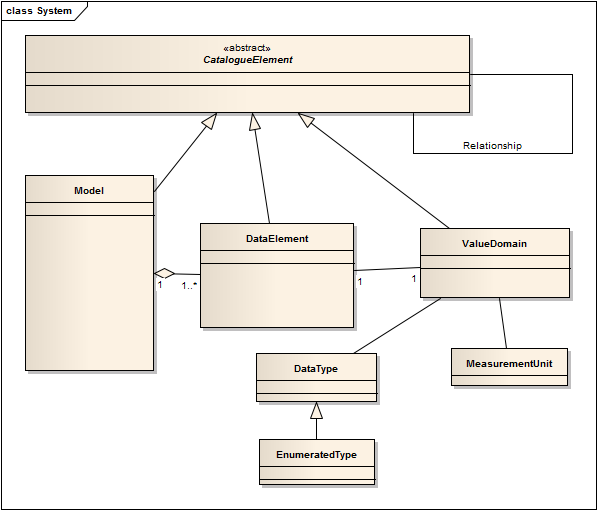
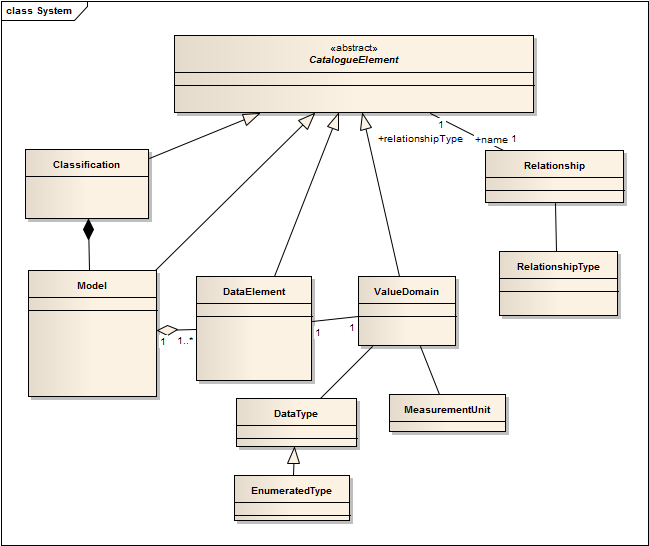
Some updates

diff --git a/1Introduction.tex b/1Introduction.tex
@@ -2,37 +2,50 @@
 
 \section{Introduction}
 
-Data Quality and Data Integration are two major problems which are becoming critical for health care providers everywhere. Research data is held on different systems, in different locations and the data itself is heterogeneous, collected without a common syntax or semantics. The successful application of metadata registries together with model driven engineering has been demonstrated to have a significant impact on these problems within two major healthcare projects within the UK's National Health Service(NHS).
+Data Quality and Data Integration are two major problems which are becoming critical for health care providers everywhere. Research data is held on different systems, in different locations and the data itself is heterogeneous, collected without a common syntax or semantics. Data quality within the enterprise is dependent on successfully managing heterogeneous data sources, and there are variety of approaches to solve the problems associated with data integration.   The successful application of metadata registries together with model driven engineering has been demonstrated to have a significant impact on these problems within two major healthcare projects within the UK's National Health Service(NHS).
 
 The UK's National Institute for Health Research (NIHR \cite{NIHR}) has sponsored the Health Informatics Collaberative (NHIC) which is backing a cross-trust programme involving 5 key NHS hospital trusts in the UK in order to set up a flexible and responsive governance framework, whereby research outcomes can rapidly be exploited by the NHS community. The work is currently limited to 5 clinical areas, but is expected in time to be extended. One of the aims of the programme is to develop tools and services for research, so that researchers can clinicians can have access to a wider cross Biomedical Research Centre (BRC) dataset. The programme has been working on developing a federated metadata registry, based on the ISO standard for metadata registries ISO11179\cite{ISO11179}, for use as a basis for enabling interoperability primarily for research data from clinical trials but also with a view to integrating this capability with Electronic Patient Records (EPR) data within the trusts.
 
 Genomics England (GEL \cite{GEL}) is a research company wholly owned by the UK's NHS, which has been created ......
 
 \subsection{Background}
+
+Interoperability is major problem in electronic information systems in 2 orthogonal respects, firstly that domain concepts and terms in multiple systems are used to mean slightly different things, and secondly that the same concept meaning in different systems very often are given a different representation, so that speed may be represented by an Integer value in one systems and by a Double in another system.
+
 The idea of a data dictionary has been around since databases first become common instruments for storing and manipulating data. A data dictionary is  the idea of a metadata registry stems from a similar notion.
 Metadata Registries are needed in organizations to ensure data consistency. Metadata Registries are capable of analysing, administering and classifying metadata and very often in practise they also function as repositories for metadata, storing the schema and blueprints for data types and structures. The ideas and concepts that are stored in data systems form the basis of executable software systems, however many of the details are peculiar to particular disciplines.  
 
-In the past Data Dictionaries were used to store details of database record structure or application data structure on a local per application basis, a metadata registry provides a similar capability but on a system or organisation-wide basis. It also provides features that are commonly included in a \emph{thesaurus}, a \emph{Taxonomy}, and an \emph{Ontology} . These features include the ability to classify terms in relation to one another, record relationships such as synonyms, and classify hierarchical relationships.
+In the past Data Dictionaries were used to store details of database record structure or application data structure on a local per application basis, a metadata registry provides a similar capability but on a system or organisation-wide basis. It also provides features that are commonly included in a \emph{Thesaurus}, a \emph{Taxonomy}, and an \emph{Ontology} . These features include the ability to classify terms in relation to one another, record relationships such as synonyms, and classify hierarchical relationships. Ontologies have proved effective in matching what we define as the first problem, that is how domain concepts can be matched, however they are quite unwieldy to use when tackling the second problem of how to match and manage different representations.
 
-Metadata Registries are normally found in Data Warehouses and Enterprise systems, where vast quantities of data need to be administered and managed. It is likely that metadata registries will become more common as it becomes more and more necessary to deal with the recent internet-driven data explosion, especially as much of this data is unstructured, and can only be processed by relatively inefficient techniques.
+Metadata Registries are normally found in Data Warehouses and Enterprise data mining systems, where vast quantities of data need to be administered and managed. It is likely that metadata registries will become more common as it becomes more and more necessary to deal with the recent internet-driven data explosion, especially as much of this data is unstructured, and can only be processed by relatively inefficient techniques.
 
-Metadata Registries contain the ability to examine both how a data element is represented as well as what it means, and it is this relationship that is embodied in the International Standard 11179, which I will examine in the next section. There are other standards which purport to be concerned with metadata registries namely ISO15000-3 and ISO15000-4, which relate to ebXML, however they are more concerned with storing and accessing metadata rather than classifying it and relating the semantic and representational aspects of that metadata.
+Metadata Registries contain the ability to examine both how a data element is represented as well as to record it means, and it is this relationship that is embodied in the International Standard 11179, which we will examine in the next section. There are other standards which are concerned with metadata registries namely ISO15000 (part 3 and 4)  which relates to ebXML, however they are more concerned with storing and accessing metadata rather than classifying it and relating the semantic and representational aspects of that metadata.
 
 \subsection{ISO11179}
-ISO11179 is the international standard relating to metadata and in particular metadata registries, and although there are a few other related standards which I have examined in the course of specifying a metadata registry ISO11179 provides the most exhaustive description of a metadata registry. It is therefore a key reference in this specification. If we abstract the core ideas from the ISO11179 standard we have the notion of a \emph{data element concept}, \emph{a data element}, \emph{a value domain}, and a \emph{conceptual domain}. The standard has no notion of collections of data elements, but instead attaches two attributes: an \emph{object class} and a \emph{property} to each DEC, these attributes allow DEC's to be aggregated or classified, see figure\ref{fig:basicMDR}
+ISO11179 is the international standard relating to metadata and in particular metadata registries, and although there are a few other related standards which have informed the specification of the toolkit we describe ISO11179 provides the most exhaustive description of a metadata registry. It is therefore a key reference in this specification.
+
+
 
 
 \begin{figure}[here]
-	\includegraphics[width=0.5\textwidth,natwidth=610,natheight=642]{Basic11179}
+	\includegraphics[width=0.48\textwidth,natwidth=610,natheight=642]{Basic11179}
 	\caption{Core model for ISO11179 Metadata Registry} 
 	\label{fig:basicMDR}
 \end{figure}
 
-ISO11179 is a very thorough standard for metadata registries, and is split into 6 sections.
+The core ideas from the ISO11179 standard can be extracted to give us the notion of a \emph{data element concept}, \emph{a data element}, \emph{a value domain}, and a \emph{conceptual domain}. The standard currently confines itself to the detailed level of concepts and data elements and has no notion of collections of data elements or data element concepts, but instead attaches two attributes: an \emph{object class} and a \emph{property} to each DEC, these attributes allow DEC's to be aggregated or classified. This core model of the ISO11179 is illustrated in figure \ref{fig:basicMDR}.
+
+
+
+
 
 \subsection{Related Work}
-????
+????Maybe add to the last section?
 
 \subsection{Objectives}
-This paper is an experience paper showing the results obtained from applying the principles of Model Driven Engineering to achieve solutions in the medical domain. In both cases the aims of the clinicians were similar, namely to integrate existing clinical trials data and to ensure that future artefacts, such as the forms used to capture datasets resulted in high data quality. The biggest frustration in fusing datasets is that it is a slow process requiring highly trained operators to ensure that datasets are correctly merged. 
-The paper is split into 5 sections, this section introduces the problem and gives an overview of the work, the next section looks at the core language or model used, section 3 deals with the implementation details, section 4 details the experience gained, in essence the results achieved and section 5 concludes.
+This paper is an experience paper showing the results obtained from applying Model Driven Engineering principles to data interoperability problems in two instances in the medical domain. In both cases the aims of the clinicians were similar, namely to integrate existing clinical trials data and to ensure that future artefacts, such as the forms used to capture datasets resulted in high data quality. 
+
+To measure data quality we looked at how the data forms used in capturing information conformed to the standards relating to the datasets used, in particular was the terminology uniform, did captured data elements mean the same thing, and did equivalent data elements capture the same values across different systems.
+
+
+The paper is split into 5 sections, this section introduces the problem and gives an overview of the work, the next section looks at the core language or model used, section 3 deals with the implem   entation details, section 4 details the experience gained, in essence the results achieved and section 5 concludes.

diff --git a/2Language.tex b/2Language.tex
@@ -66,7 +66,11 @@ Consider the definition of a \emph{Conceptual Domain}:
 \end{quote}
 
 
-\subsection{A Metadata Language }
+\subsection{A Metadata Language and Abstract Architecture }
+
+The ISO11179 specification illustrates different aspects of the standard using UML class diagrams, we have used these to inform the development of a very simple domain specific language based on the standard. The main differences are that we have added in containers to handle data element collections, calling these \emph{Models} and to handle collections of these \emph{Models} which we have called \emph{Classifications}.
+
+A simplified overview model, without attributes and methods, is shown in Figure \ref{fig:basicMDR}.
 
 \begin{figure}[here]
 	\includegraphics[width=0.5\textwidth,natwidth=610,natheight=642]{MCSimplifiedOverview}
@@ -76,8 +80,7 @@ Consider the definition of a \emph{Conceptual Domain}:
 
 
 
-
-\subsection{Abstract Architecture}
+ 
 
 
 
